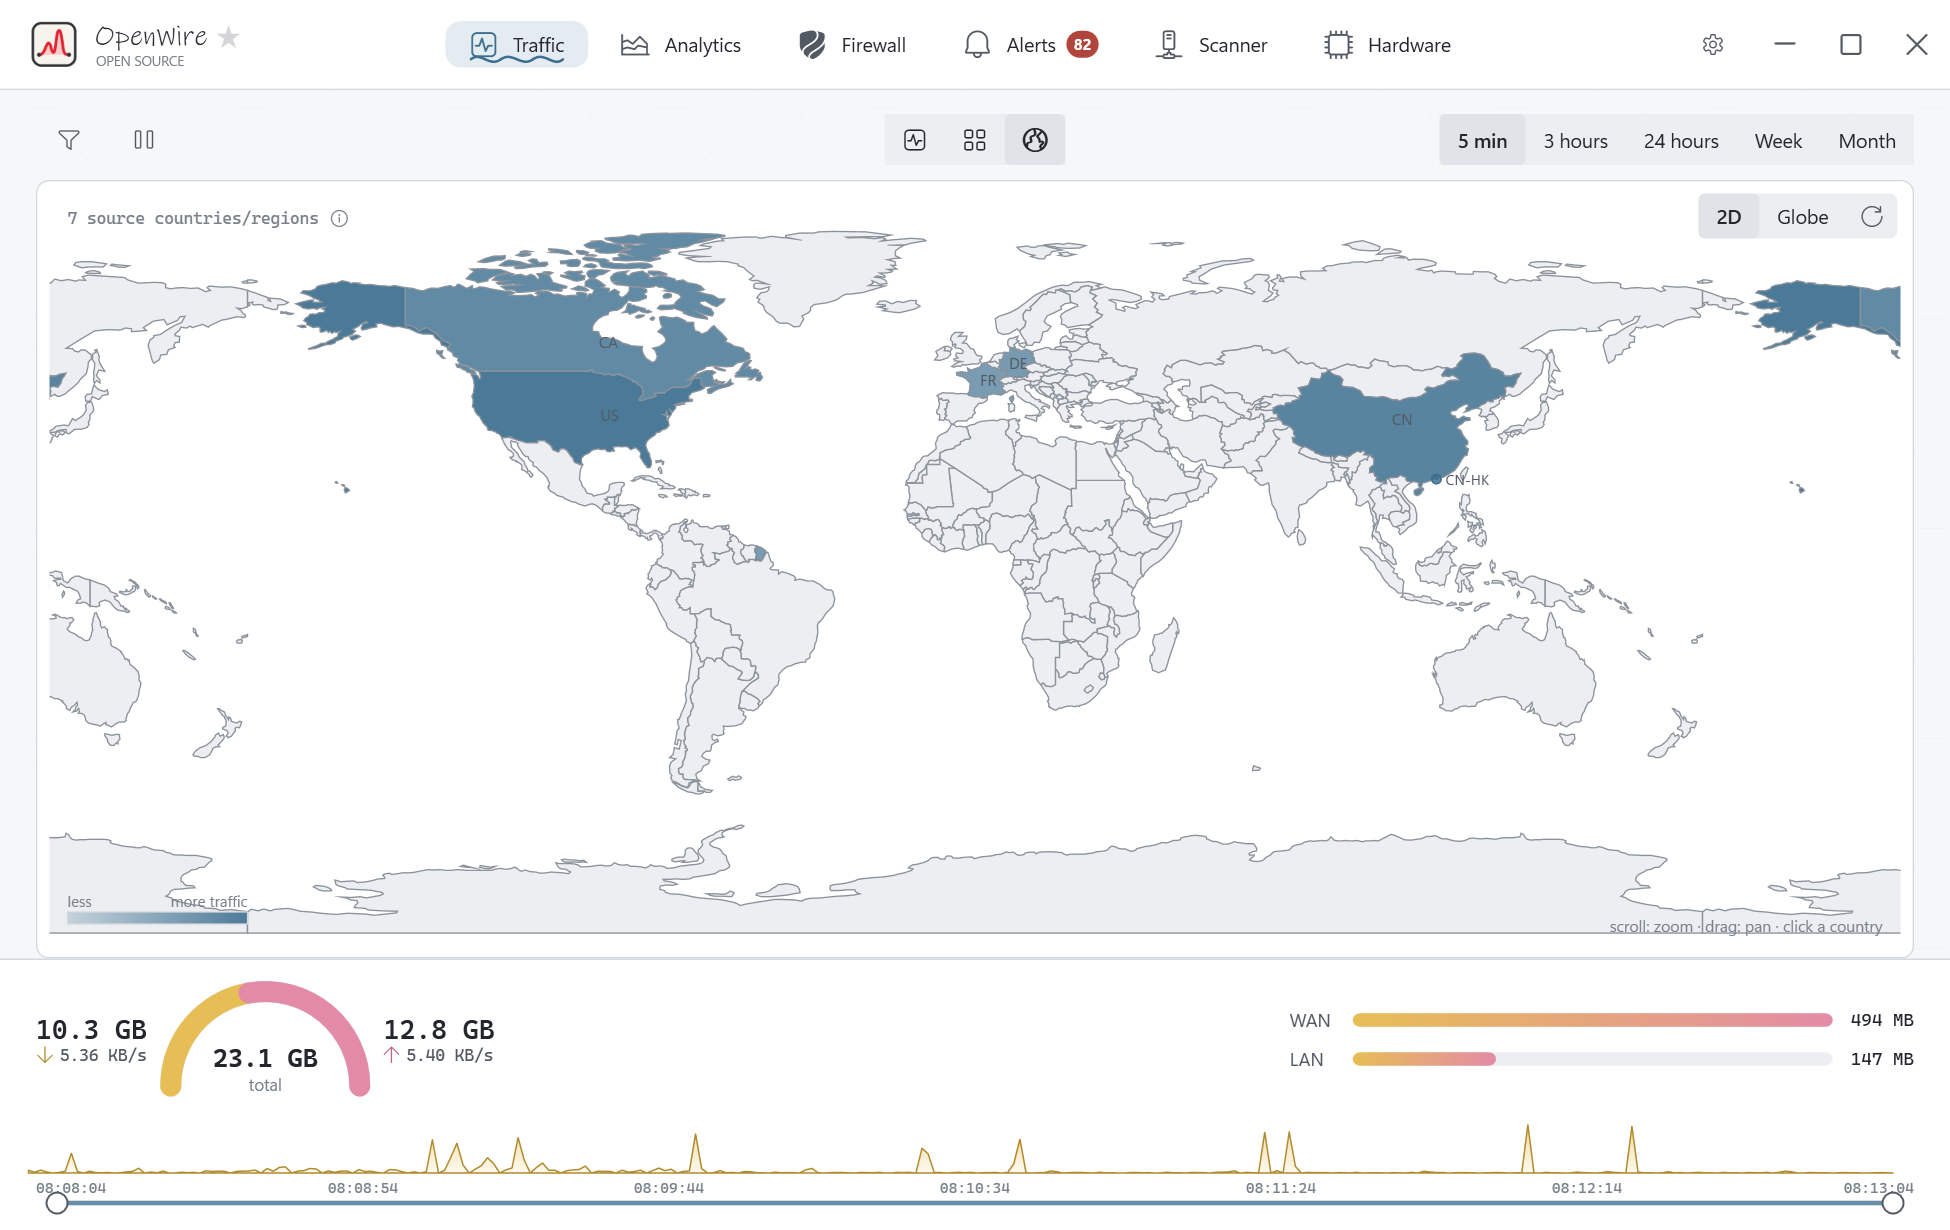
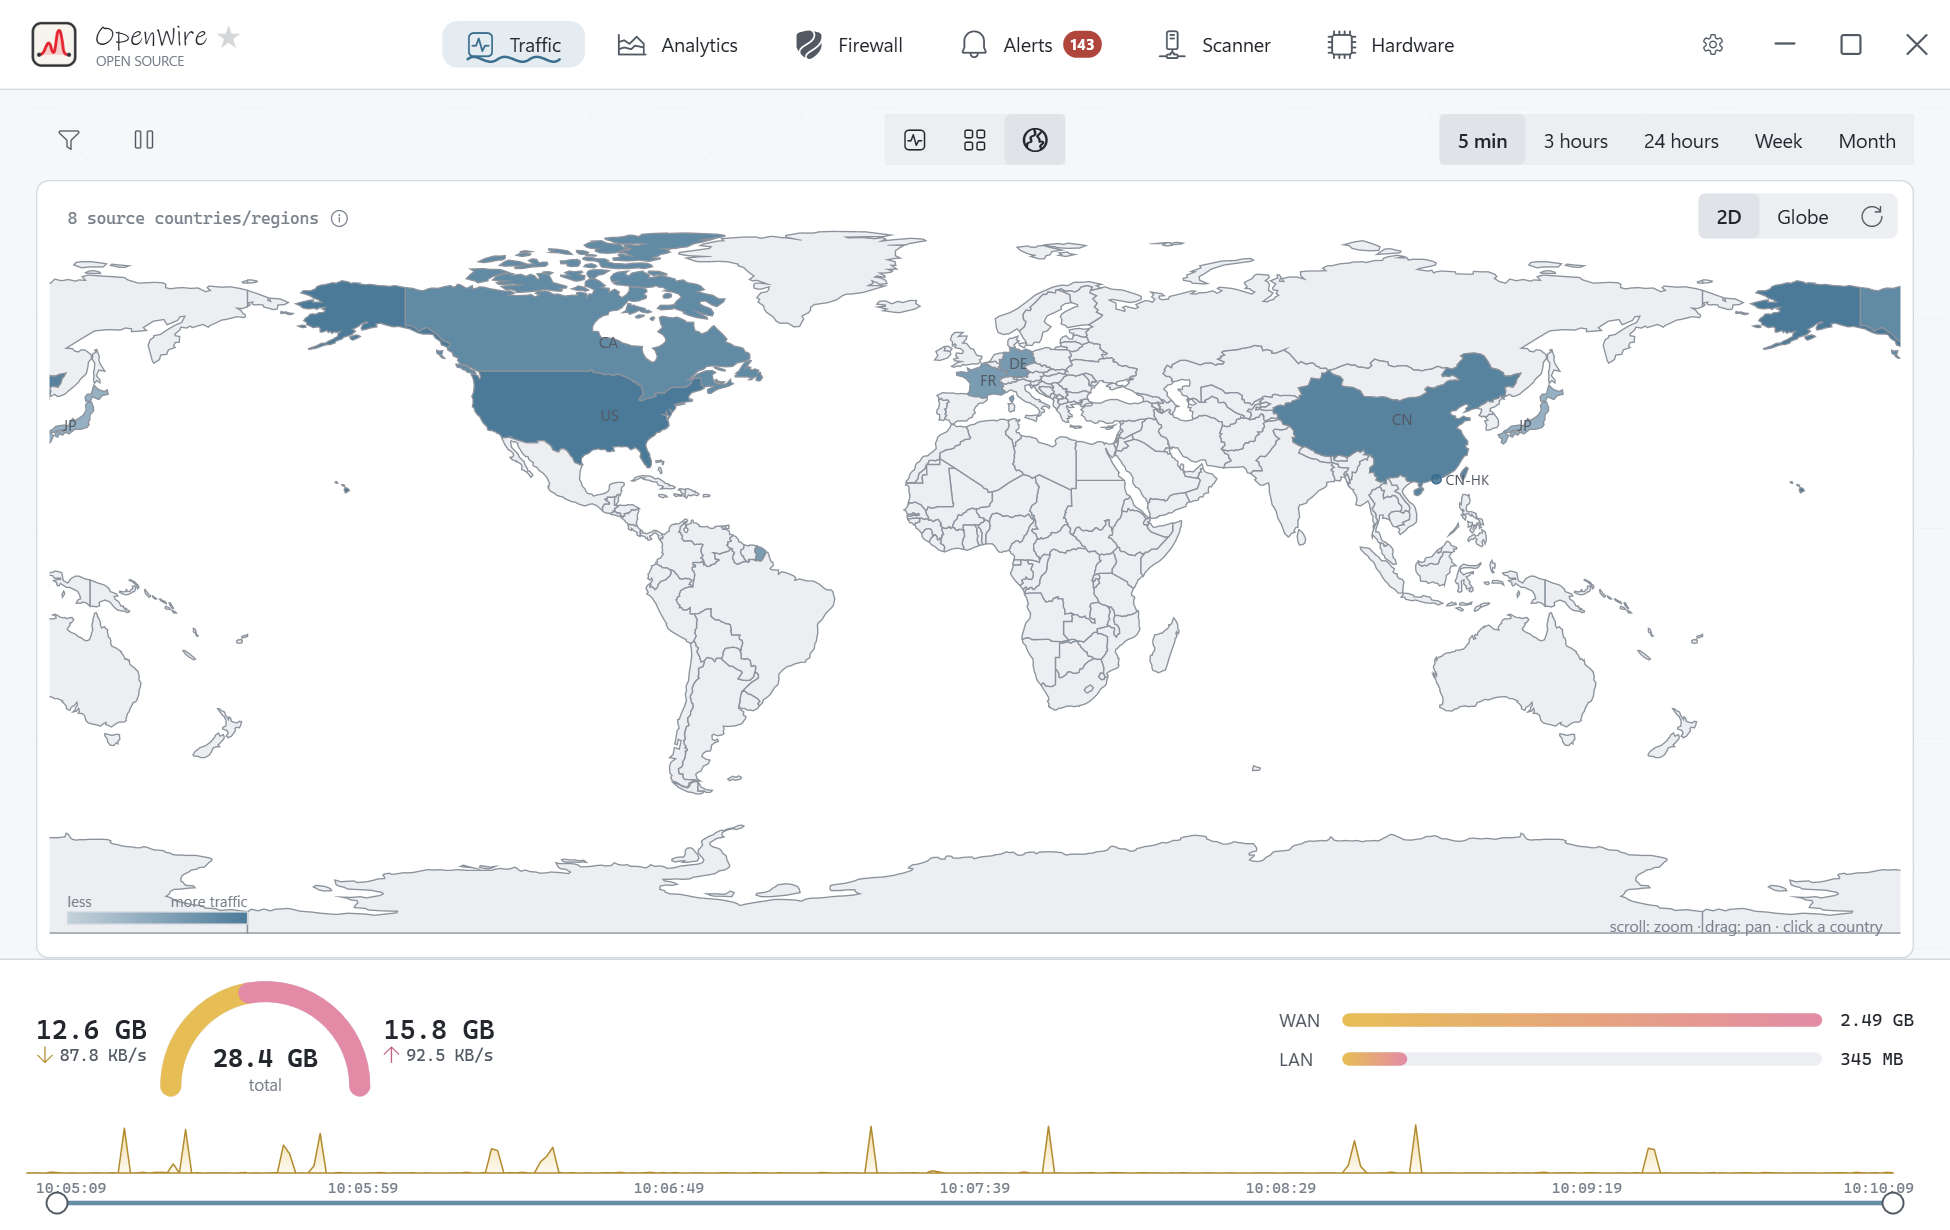
fix(map): render mainland + Taiwan + HK + Macao as one China on the traffic map
The choropleth shaded each region by its own bytes, so when only the mainland had traffic Taiwan stayed grey. Sum CN+TW+HK+MO into a single China total and shade every China region by it, so the whole of China lights up together whenever any part of it has traffic (verified: Taiwan now shades the same blue as the mainland). Hovering a region still shows that region's own figure. README map/globe screenshots refreshed.

diff --git a/src/OpenWire.App/Controls/WorldMap.cs b/src/OpenWire.App/Controls/WorldMap.cs
@@ -26,6 +26,12 @@ public sealed class WorldMap : FrameworkElement
 
     private Dictionary<string, long> _traffic = new(StringComparer.OrdinalIgnoreCase);
     private long _max = 1;
+
+    // One-China: mainland + Taiwan + Hong Kong + Macao are shaded together as a single
+    // China whenever ANY of them has traffic. This is the sum of all four, used for the
+    // fill of every China region so they light up as one (hovering still shows each
+    // region's own figure). Kept in sync by SetData.
+    private long _chinaBytes;
     private readonly Typeface _ui = new("Segoe UI Variable Text, Segoe UI");
     private readonly Typeface _mono = new("Cascadia Mono, Consolas");
 
@@ -114,9 +120,25 @@ public sealed class WorldMap : FrameworkElement
         foreach (var c in data ?? Array.Empty<CountryUsage>())
             if (!string.IsNullOrEmpty(c.CountryCode) && c.Total > 0)
                 _traffic[c.CountryCode] = c.Total;
-        _max = 1;
-        foreach (var v in _traffic.Values) if (v > _max) _max = v;
+
+        // Sum the China regions so they shade as one territory.
+        _chinaBytes = 0;
+        foreach (var iso in new[] { "CN", "TW", "HK", "MO" })
+            if (_traffic.TryGetValue(iso, out var v)) _chinaBytes += v;
+
+        _max = Math.Max(1, _chinaBytes);
+        foreach (var (iso, v) in _traffic) if (!IsChinaIso(iso) && v > _max) _max = v;
         InvalidateVisual();
+    }
+
+    /// <summary>Traffic used to <em>shade</em> a region: the China aggregate for any
+    /// China region (so mainland + Taiwan + HK + Macao light up together), otherwise
+    /// the region's own total. 0 means "no traffic → base land colour".</summary>
+    private long FillBytes(string? iso)
+    {
+        if (string.IsNullOrEmpty(iso)) return 0;
+        if (IsChinaIso(iso)) return _chinaBytes;
+        return _traffic.TryGetValue(iso, out var b) ? b : 0;
     }
 
     /// <summary>Recentre / reset zoom for the current mode.</summary>
@@ -329,8 +351,8 @@ public sealed class WorldMap : FrameworkElement
             dc.PushTransform(new MatrixTransform(_fs, 0, 0, _fs, _fox + shift, _foy));
             foreach (var c in WorldGeo.Shapes)
             {
-                Brush fill = _traffic.TryGetValue(c.Iso, out var bytes) && !string.IsNullOrEmpty(c.Iso)
-                    ? Shade(bytes, 0.22, 0.92) : pal.Land;
+                long bytes = FillBytes(c.Iso);
+                Brush fill = bytes > 0 ? Shade(bytes, 0.22, 0.92) : pal.Land;
                 dc.DrawGeometry(fill, coast, c.Geo);
             }
             if (_hover is not null)
@@ -405,7 +427,8 @@ public sealed class WorldMap : FrameworkElement
         {
             var geo = ProjectGlobe(c, slat0, clat0);
             if (geo is null) continue;
-            Brush fill = _traffic.TryGetValue(c.Iso, out var bytes) && !string.IsNullOrEmpty(c.Iso)
+            long bytes = FillBytes(c.Iso);
+            Brush fill = bytes > 0
                 ? LandShade(pal.LandBase, pal.Accent, bytes, lnMax) : pal.LandGlobe;
             dc.DrawGeometry(fill, coast, geo);
         }